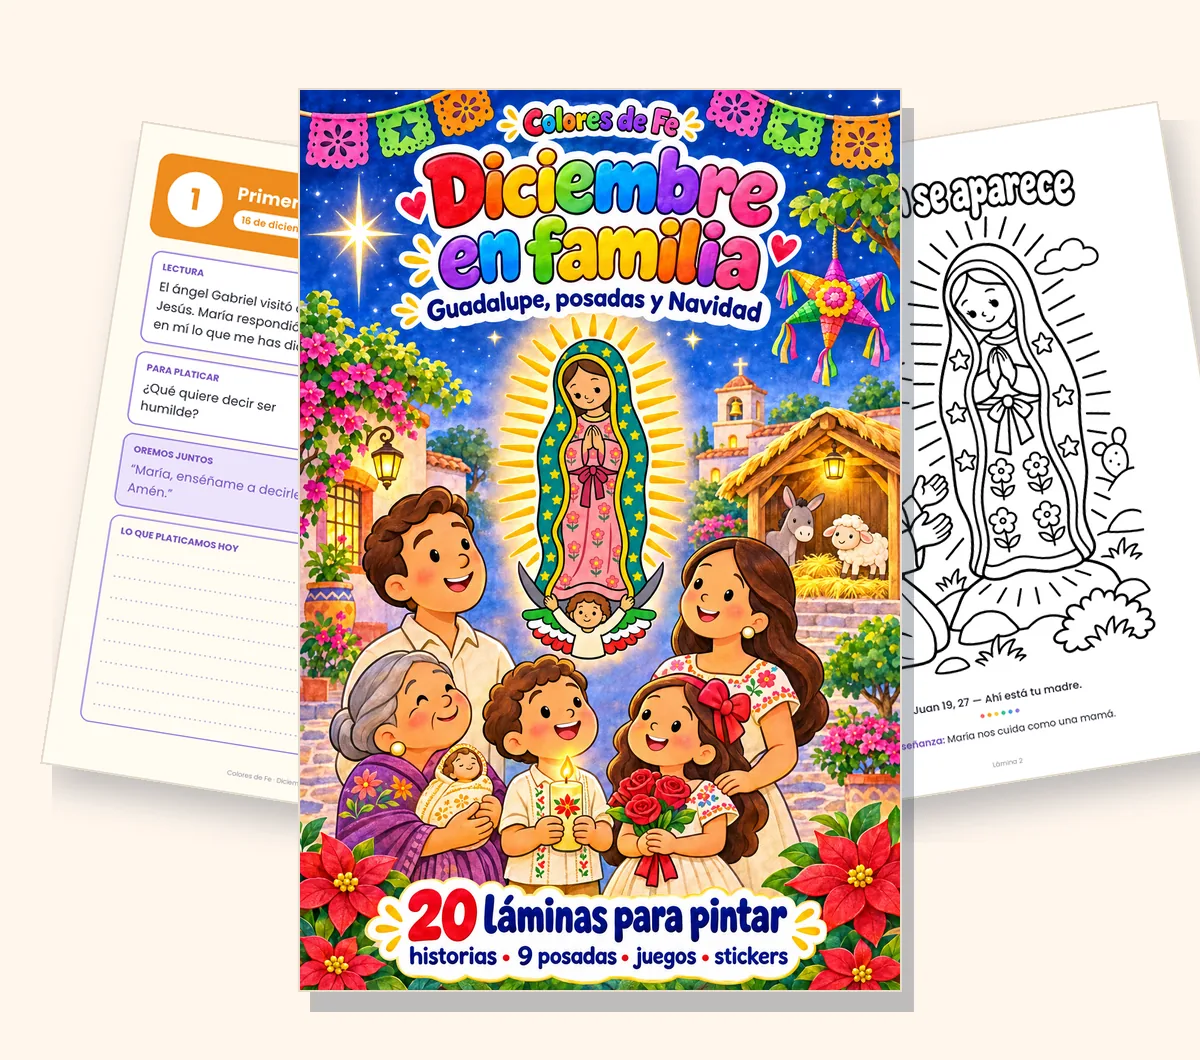
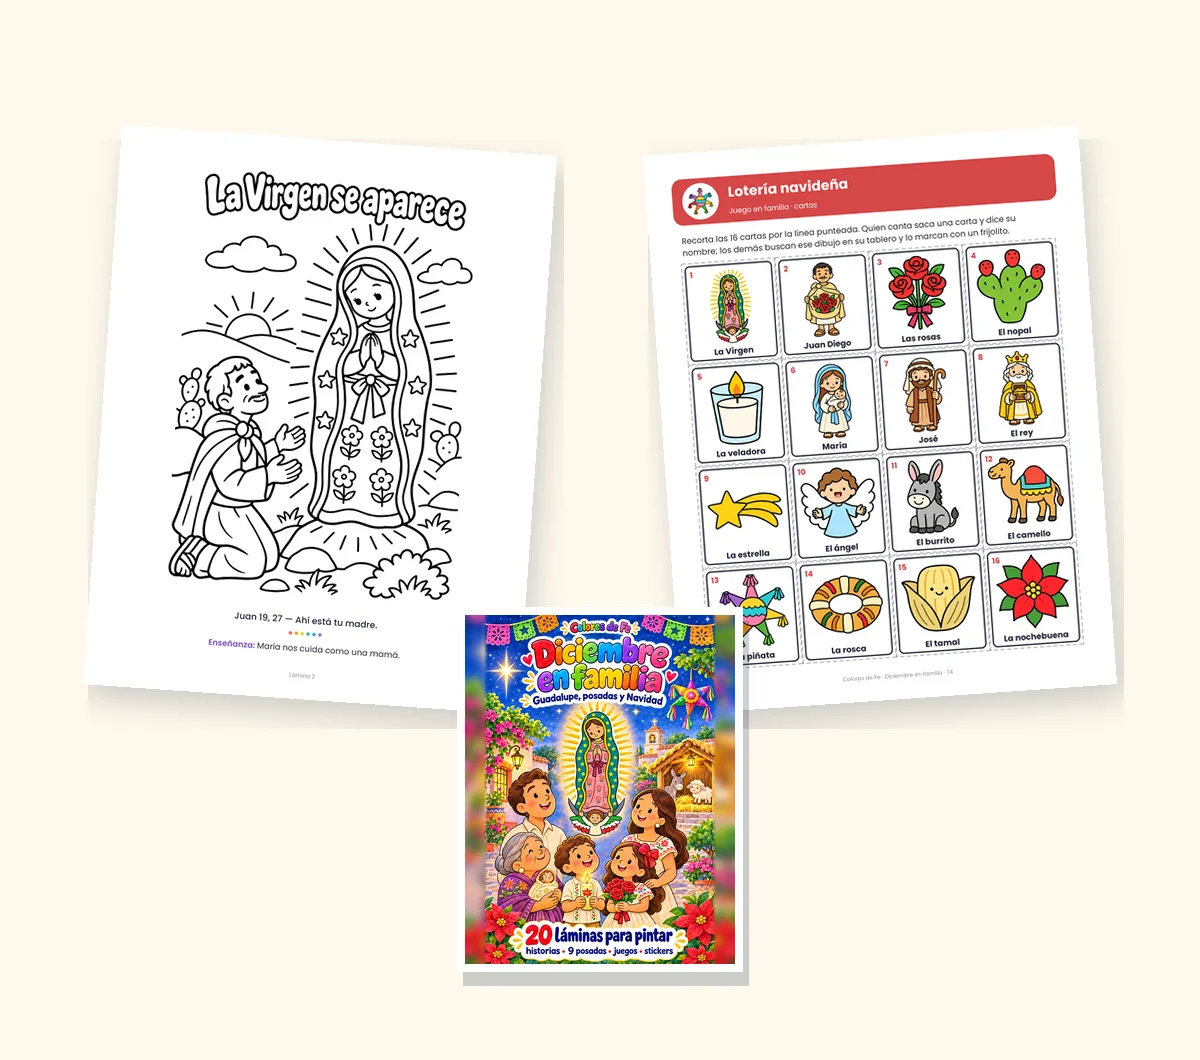
Landings MX: héroe con láminas reales, línea para catequistas y Diciembre con la Virgen y la lotería adelante

diff --git a/index.html b/index.html
@@ -103,6 +103,8 @@ fbq('track','ViewContent',{content_name:'Kit completo Colores de Fe',currency:'M
   .cdf-example-grid figcaption{text-align:center;font-size:13px;color:#6c798c;margin-top:8px;font-weight:700}
   .cdf-hero-cta{max-width:510px;margin:18px auto 0}
   .cdf-hero-cta .cdf-trust{margin-top:10px;font-size:13px}
+  .cdf-cate{font-size:15px;color:var(--navy);text-align:center;margin:10px 0 0}
+  .cdf-cate a{color:var(--navy);font-weight:800;text-decoration:underline}
   .cdf-print{font-size:15px;font-weight:800;color:var(--navy);text-align:center;background:#fff8e1;border:1px solid var(--yellow);border-radius:12px;padding:8px 12px;margin:12px 0 0}
   #comprar{scroll-margin-top:16px}
   .cdf-real{max-width:520px;margin:30px auto 0;text-align:center}
@@ -208,16 +210,17 @@ fbq('track','ViewContent',{content_name:'Kit completo Colores de Fe',currency:'M
           <div class="cdf-eyebrow">Sin pantallas · Para niños de 3 a 8 años 💛</div>
           <h1 class="cdf-h1">Que tus hijos conozcan <span>a Dios</span> pintando, jugando y leyendo</h1>
           <p class="cdf-age"><span>🎁 Kit completo · 5 materiales</span></p>
-          <p class="cdf-lead">El kit completo de Colores de Fe: <strong>50 láminas para pintar, 40 historias de la Biblia para leer, más de 100 juegos, 162 stickers y una guía</strong> para platicar en familia. Lo descargas al instante y lo imprimes las veces que quieras.</p>
+          <p class="cdf-lead">Una forma divertida de acercarse a Dios: <strong>50 láminas para pintar, 40 historias de la Biblia para leer, más de 100 juegos, 162 stickers y una guía</strong> para platicar en familia. Lo descargas al instante y lo imprimes en casa las veces que quieras.</p>
         </div>
 
         <div class="cdf-hero-media">
           <!-- impu:image -->
-          <img class="cdf-mock" src="https://sb.impultienda.ar/storage/v1/object/public/store-resources/00421365-b88a-4ef7-bd3c-de8e2458ce80/1793968966123_imagen-principal-kit.webp" alt="Kit completo Colores de Fe: 50 láminas para pintar, Historias de la Biblia, Juegos y pasatiempos, Guía de conversación y Stickers de fe" width="1200" height="1060">
+          <img class="cdf-mock" src="img/hero-laminas.webp" alt="Tres láminas reales para pintar del kit: La Creación, Noé y el arca y Jesús y los niños; abajo, las tapas de los 5 materiales" width="1200" height="1060">
           <div class="cdf-hero-cta">
             <p class="cdf-price-hero">Todo el kit: <b>$197 MXN</b> · pago único</p>
             <a class="cdf-btn" href="https://pay.hotmart.com/K108383205J?checkoutMode=10">QUIERO EL KIT COMPLETO →</a>
             <p class="cdf-print">🖨 ¿No tienes impresora? Lo imprimes en cualquier papelería cerca de tu casa.</p>
+            <p class="cdf-cate">🙌 ¿Das catequesis? Lo imprimes para cada niño de tu grupo, las veces que quieras. <a href="#catequesis">Ver cómo</a></p>
             <div class="cdf-trust">🔒 Pago seguro con tarjeta u OXXO · 📩 Llega a tu correo · 🛡 Garantía de 7 días</div>
             <a class="cdf-hero-gift" href="#kit">🎁 Ver todo lo que trae el kit</a>
           </div>
@@ -520,6 +523,7 @@ fbq('track','ViewContent',{content_name:'Kit completo Colores de Fe',currency:'M
         <details><summary>¿Para qué edades está pensado?</summary><p>Está pensado para niños de kínder y de los primeros años de primaria (más o menos de 3 a 8 años). Los más grandes pueden hacerlo a su ritmo, y con los más chiquitos es un lindo momento para compartir.</p></details>
         <details><summary>¿Hace falta saber de la Biblia para usarlo?</summary><p>No. Las historias están contadas con palabras simples y la guía te da las preguntas y una oración para cada tema. Solo tienes que sentarte a su lado.</p></details>
         <details><summary>¿Puedo volver a imprimir?</summary><p>Sí. Una vez descargado el archivo, puedes volver a imprimir las páginas cuando las necesites, para tu familia o para el grupo de niños que acompañes. Lo que no se permite es compartir el archivo ni revenderlo.</p></details>
+        <details id="catequesis"><summary>¿Lo puedo usar en la catequesis?</summary><p>Sí. Puedes imprimir las láminas, las historias y los juegos para cada niño de tu grupo, todas las veces que quieras. Lo que no se permite es compartir el archivo con otras catequistas ni revenderlo: cada una puede comprar el suyo.</p></details>
         <details><summary>¿Cómo son los juegos y pasatiempos?</summary><p>Es un PDF de 131 páginas con más de 100 actividades de la Biblia, ordenadas de fácil a difícil: pintar por números, laberintos, unir los puntos, sopas de letras, crucigramas, sudokus con dibujos, números, píxeles, juegos en familia y un abecedario. Al final tiene las respuestas.</p></details>
         <details><summary>¿Cómo son los stickers?</summary><p>Es un PDF de 15 hojas con 162 stickers para imprimir: personajes de la Biblia, milagros y parábolas de Jesús, frases de fe, valores y más, con una tabla semanal de buenas acciones. No vienen adhesivos: los imprimes en papel adhesivo, o en papel común y los pegas con pegamento.</p></details>
         <details><summary>¿Cómo puedo pagar?</summary><p>Con tarjeta de crédito o débito, o en efectivo en OXXO. Si pagas en OXXO, recibes una ficha de pago y el material te llega cuando se acredita (puede tardar hasta un día hábil).</p></details>

diff --git a/diciembre/index.html b/diciembre/index.html
@@ -219,12 +219,12 @@ fbq('track','ViewContent',{content_name:'Diciembre en familia',currency:'MXN',va
         <div class="cdf-hero-text">
           <div class="cdf-eyebrow">Para familias católicas · Niños de 3 a 8 años 💛</div>
           <h1 class="cdf-h1">Vive diciembre en familia con <span>la Virgen de Guadalupe</span>, las posadas y el Niño Dios</h1>
-          <p class="cdf-age"><span>🌹 Del Adviento a la Candelaria</span></p>
+          <p class="cdf-age"><span>🌹 Del Adviento a la Candelaria · para imprimir</span></p>
           <p class="cdf-lead">Un libro para pintar, leer, rezar y jugar juntos: <strong>el Adviento con su corona y su calendario, 20 láminas con su historia, una página para cada una de las 9 posadas, juegos navideños y stickers</strong>. Lo descargas al instante y lo imprimes las veces que quieras.</p>
         </div>
 
         <div class="cdf-hero-media">
-          <img class="cdf-mock" src="img/hero.webp" alt="Diciembre en familia: la portada con la Virgen de Guadalupe y una familia mexicana, una página de la primera posada y la lámina La Virgen se aparece" width="1200" height="1060">
+          <img class="cdf-mock" src="img/hero.webp" alt="Diciembre en familia: la lámina La Virgen se aparece, las cartas de la lotería navideña con la Virgen y Juan Diego, y la portada del libro" width="1200" height="1060">
           <div class="cdf-hero-cta">
             <p class="cdf-price-hero">Todo el libro: <b>$147 MXN</b> · pago único</p>
             <a class="cdf-btn" href="https://pay.hotmart.com/M108386246R?checkoutMode=10">QUIERO DICIEMBRE EN FAMILIA →</a>
